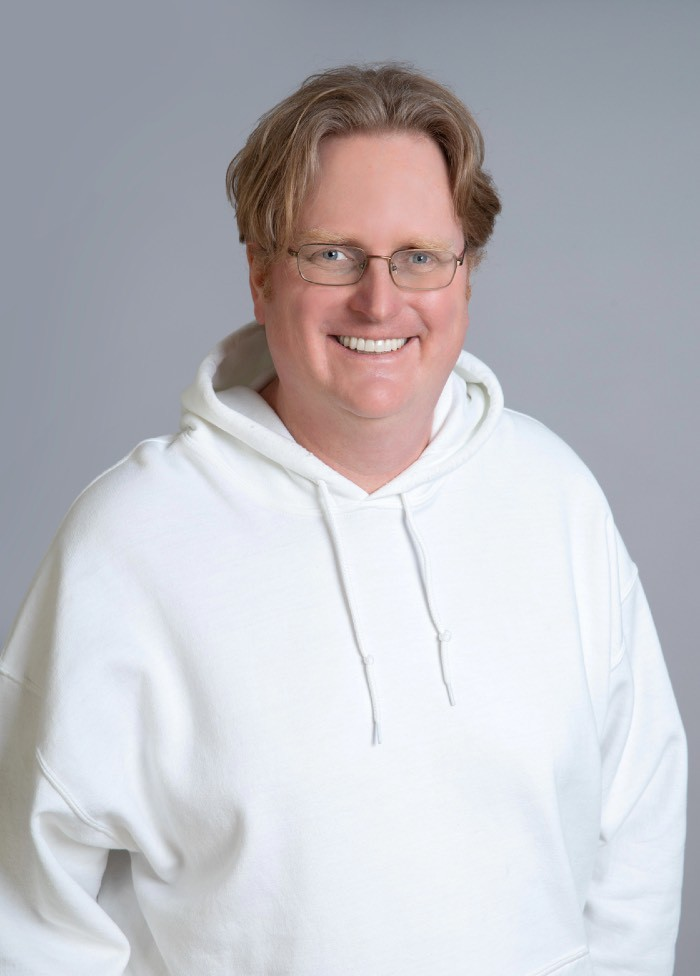
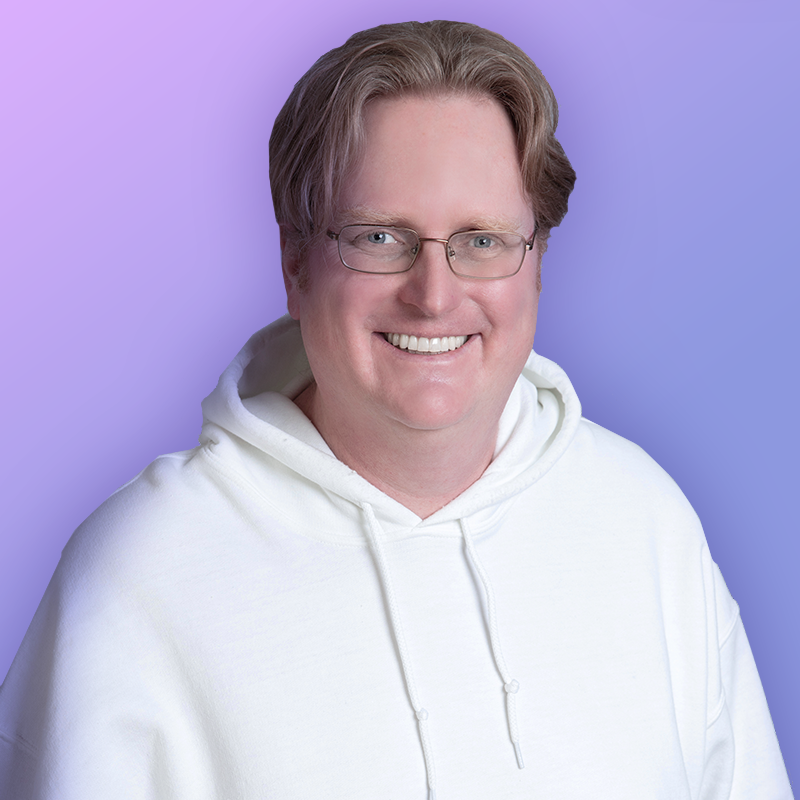
changed Testimonial/Founders images + fixed font size #28)
* changes Testimonial images and font size

* changed Founders image

* fix for Slider buttons

diff --git a/components/pageComponents/homepage/Testimonials/Testimonials-Slider/Slider.js b/components/pageComponents/homepage/Testimonials/Testimonials-Slider/Slider.js
@@ -1,4 +1,3 @@
-import { createRef } from 'react'
 import Image from 'next/image'
 import { Swiper, SwiperSlide } from 'swiper/react'
 import { Navigation } from 'swiper'
@@ -14,23 +13,13 @@ import 'swiper/css/navigation'
 import styles from './Slider.module.scss'
 
 const Slider = () => {
-  const navigationPrevRef = createRef(null)
-  const navigationNextRef = createRef(null)
-
   return (
     <>
       <Swiper
         modules={[Navigation]}
         navigation={{
-          prevEl: navigationPrevRef.current,
-          nextEl: navigationNextRef.current,
-        }}
-        onBeforeInit={(swiper) => {
-          const {
-            params: { navigation },
-          } = swiper
-          navigation.prevEl = navigationPrevRef.current
-          navigation.nextEl = navigationNextRef.current
+          prevEl: '.prev-btn',
+          nextEl: '.next-btn',
         }}
         spaceBetween={100}
         slidesPerView={1}
@@ -61,8 +50,8 @@ const Slider = () => {
           </SwiperSlide>
         ))}
       </Swiper>
-      <PrevBtn ref={navigationPrevRef} />
-      <NextBtn ref={navigationNextRef} />
+      <PrevBtn />
+      <NextBtn />
     </>
   )
 }

diff --git a/components/pageComponents/homepage/Testimonials/Testimonials-Slider/Buttons/Buttons.js b/components/pageComponents/homepage/Testimonials/Testimonials-Slider/Buttons/Buttons.js
@@ -1,21 +1,21 @@
-import { forwardRef } from 'react'
+import clsx from 'clsx'
 
 import styles from './Button.module.scss'
 
-const NextBtn = forwardRef((_, ref) => {
+const NextBtn = () => {
   return (
-    <button className={styles.nextBtn} ref={ref} type="next-btn">
+    <button className={clsx(styles.nextBtn, 'next-btn')} type="next-btn">
       Next
     </button>
   )
-})
+}
 
-const PrevBtn = forwardRef((_, ref) => {
+const PrevBtn = () => {
   return (
-    <button className={styles.prevBtn} ref={ref} type="prev-btn">
+    <button className={clsx(styles.prevBtn, 'prev-btn')} type="prev-btn">
       Prev
     </button>
   )
-})
+}
 
 export { PrevBtn, NextBtn }

diff --git a/components/pageComponents/homepage/Testimonials/Testimonials-Slider/Slider.module.scss b/components/pageComponents/homepage/Testimonials/Testimonials-Slider/Slider.module.scss
@@ -16,8 +16,8 @@
   position: relative;
   margin-top: 2.5rem;
   font-weight: 700;
-  font-size: 1.3rem;
-  line-height: 2.7rem;
+  font-size: 1.1rem;
+  line-height: 2rem;
 
   &:before {
     content: '';
@@ -51,7 +51,7 @@
 
 .name {
   font-weight: 700;
-  font-size: 20px;
+  font-size: 1.1rem;
   line-height: 28px;
 }
 

diff --git a/components/pageComponents/homepage/Testimonials/Testimonials-Slider/Buttons/Button.module.scss b/components/pageComponents/homepage/Testimonials/Testimonials-Slider/Buttons/Button.module.scss
@@ -19,7 +19,8 @@
 
 .prevBtn::before {
   content: '';
-  background: url('/images/homePage/Testimonials/arrow-prev.svg');
+  background: url('/images/homePage/Testimonials/arrow-prev.svg') center/contain
+    no-repeat;
   position: absolute;
   inset: 0;
 }

diff --git a/components/pageComponents/buildpage/Founders/Founders.module.scss b/components/pageComponents/buildpage/Founders/Founders.module.scss
@@ -39,8 +39,13 @@
 }
 
 .foundersImg {
+  position: relative;
   width: $mobile-width;
   margin: auto;
-  border-style: 16px;
-  margin-top: 5rem;
+  border-radius: 16px;
+  margin-top: 4rem;
+
+  & > span {
+    border-radius: 16px;
+  }
 }

diff --git a/components/pageComponents/buildpage/Founders/Founders.js b/components/pageComponents/buildpage/Founders/Founders.js
@@ -58,7 +58,7 @@ const Founders = () => {
           src={FoundersImg}
           alt="Founders"
           quality={100}
-          layout="fixed"
+          layout="responsive"
           priority={false}
         />
       </div>
